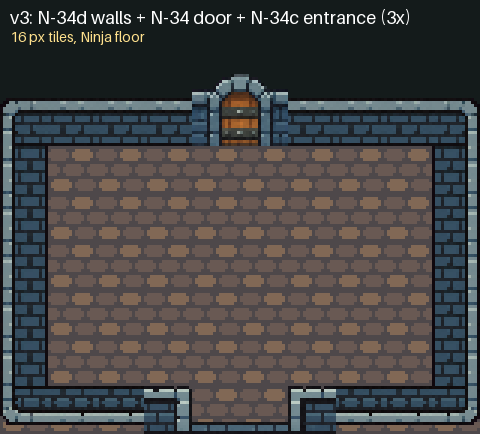
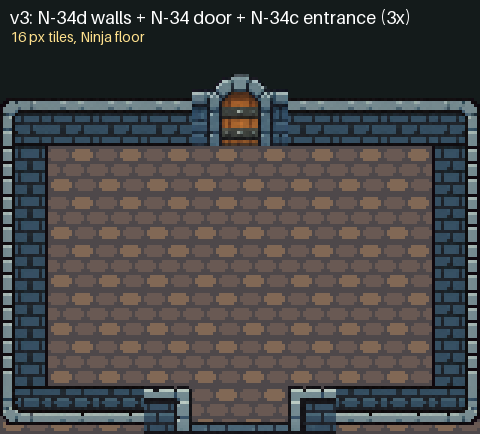
art(blobz): side walls as one continuous edge-stone column (3 even stones per tile)
Claude-Session: https://claude.ai/code/session_019PjhQv7Xfjv9fRCZgvquZ1

diff --git a/blobz/scripts/room_walls.py b/blobz/scripts/room_walls.py
@@ -128,8 +128,9 @@ def slice_v2():
     Every piece sampled on a fixed 16-col grid over its box (outline cut off on the sides that join another piece):
       tl / t / tr: 16x16; b / bl / br: 16 x 13 (same pitch as the corners), top-aligned (bottom rows = outside)
     Side walls (Stefan): NOT the delivered side pieces. Built from crops only:
-      outer edge = the light grey edge stones of the top corners (tl cols 0-3, tr cols 12-15): stone A = rows 6-10,
-                   stone B = rows 11-14 + one repeated row; stacked A, B, A (+1 repeated row) = 16 rows
+      outer edge = a continuous column of evenly spaced light grey edge stones (Stefan: one wall, not stacked corner
+                   chunks): 3 stones per 16 px (5, 5, 6 rows), each = joint row (outline colour) + the corner edge
+                   stone's highlight row + its body row repeated (tl cols 0-3, tr cols 12-15); no chamfers
       mortar col = tl col 4 / tr col 11
       inner bricks = horizontal courses from wall-t (course X = rows 5-7 + one repeated row, course Y = rows 8-11),
                      stacked X, Y, X, Y = 16 rows, cols 0-9 of wall-t
@@ -159,18 +160,27 @@ def slice_v2():
     t_ = w['t']
     bricks = np.concatenate([t_[5:8], t_[7:8], t_[8:12], t_[5:8], t_[7:8], t_[8:12]])  # 16 rows, horizontal courses
 
-    def stones(src, c0, c1):
-        a, b_ = src[6:11, c0:c1], np.concatenate([src[11:15, c0:c1], src[13:14, c0:c1]])
-        return np.concatenate([a, a[2:3], b_, a])  # 6 + 5 + 5 = 16
+    def stones(src, c0, c1, joint):
+        """A continuous column of evenly spaced edge stones, 3 per 16 px (5, 5, 6 rows): each stone = one joint row
+        (outline colour), the corner stone's highlight row (row 11), then its body row (row 12) repeated.
+        No corner shapes; tiles every 16 px."""
+        out = []
+        for h in (5, 5, 6):
+            j = src[11, c0:c1].copy()
+            j[:] = joint
+            out += [j[None], src[11:12, c0:c1]] + [src[12:13, c0:c1]] * (h - 2)
+        return np.concatenate(out)
 
     tlg, trg = w['tl'], w['tr']
     l = np.zeros((16, 16, 4), np.uint8)
-    l[:, 0:4] = stones(tlg, 0, 4)
+    l[:, 0:4] = stones(tlg, 0, 4, tlg[8, 0])
+    l[:, 0] = tlg[8, 0]  # outer outline stays one line
     l[:, 4] = tlg[6, 4]  # mortar column
     l[:, 5:15] = bricks[:, 0:10]
     l[:, 15] = tlg[8, 0]  # outline on the floor side
     r = np.zeros((16, 16, 4), np.uint8)
-    r[:, 12:16] = stones(trg, 12, 16)
+    r[:, 12:16] = stones(trg, 12, 16, trg[8, 15])
+    r[:, 15] = trg[8, 15]
     r[:, 11] = trg[6, 11]
     r[:, 1:11] = bricks[:, 6:16]
     r[:, 0] = trg[8, 15]
